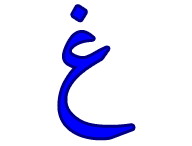
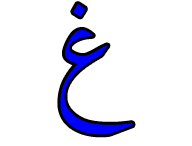
Made the new letters. It looks seriously awesome, alhamdulillah. Also made a small fix for the aliasing when scaling our letters (almost always!)

Changed region(s): [[0.2812, 0.0, 0.7188, 0.9863]]

diff --git a/game-core/src/com/deengames/radiantwrench/view/Sprite.java b/game-core/src/com/deengames/radiantwrench/view/Sprite.java
@@ -3,6 +3,7 @@ package com.deengames.radiantwrench.view;
 import com.badlogic.gdx.Gdx;
 import com.badlogic.gdx.graphics.Color;
 import com.badlogic.gdx.graphics.Texture;
+import com.badlogic.gdx.graphics.Texture.TextureFilter;
 import com.badlogic.gdx.graphics.g2d.SpriteBatch;
 import com.deengames.radiantwrench.controller.Game;
 
@@ -34,6 +35,7 @@ public class Sprite implements Drawable, Clickable {
 	public Sprite(String fileName) {
 		this._fileName = fileName;
 		this.loadTexture();
+		this._texture.setFilter(TextureFilter.Linear, TextureFilter.Linear);
 		this._orderAdded = nextOrderAdded;
 		nextOrderAdded++;
 	}
